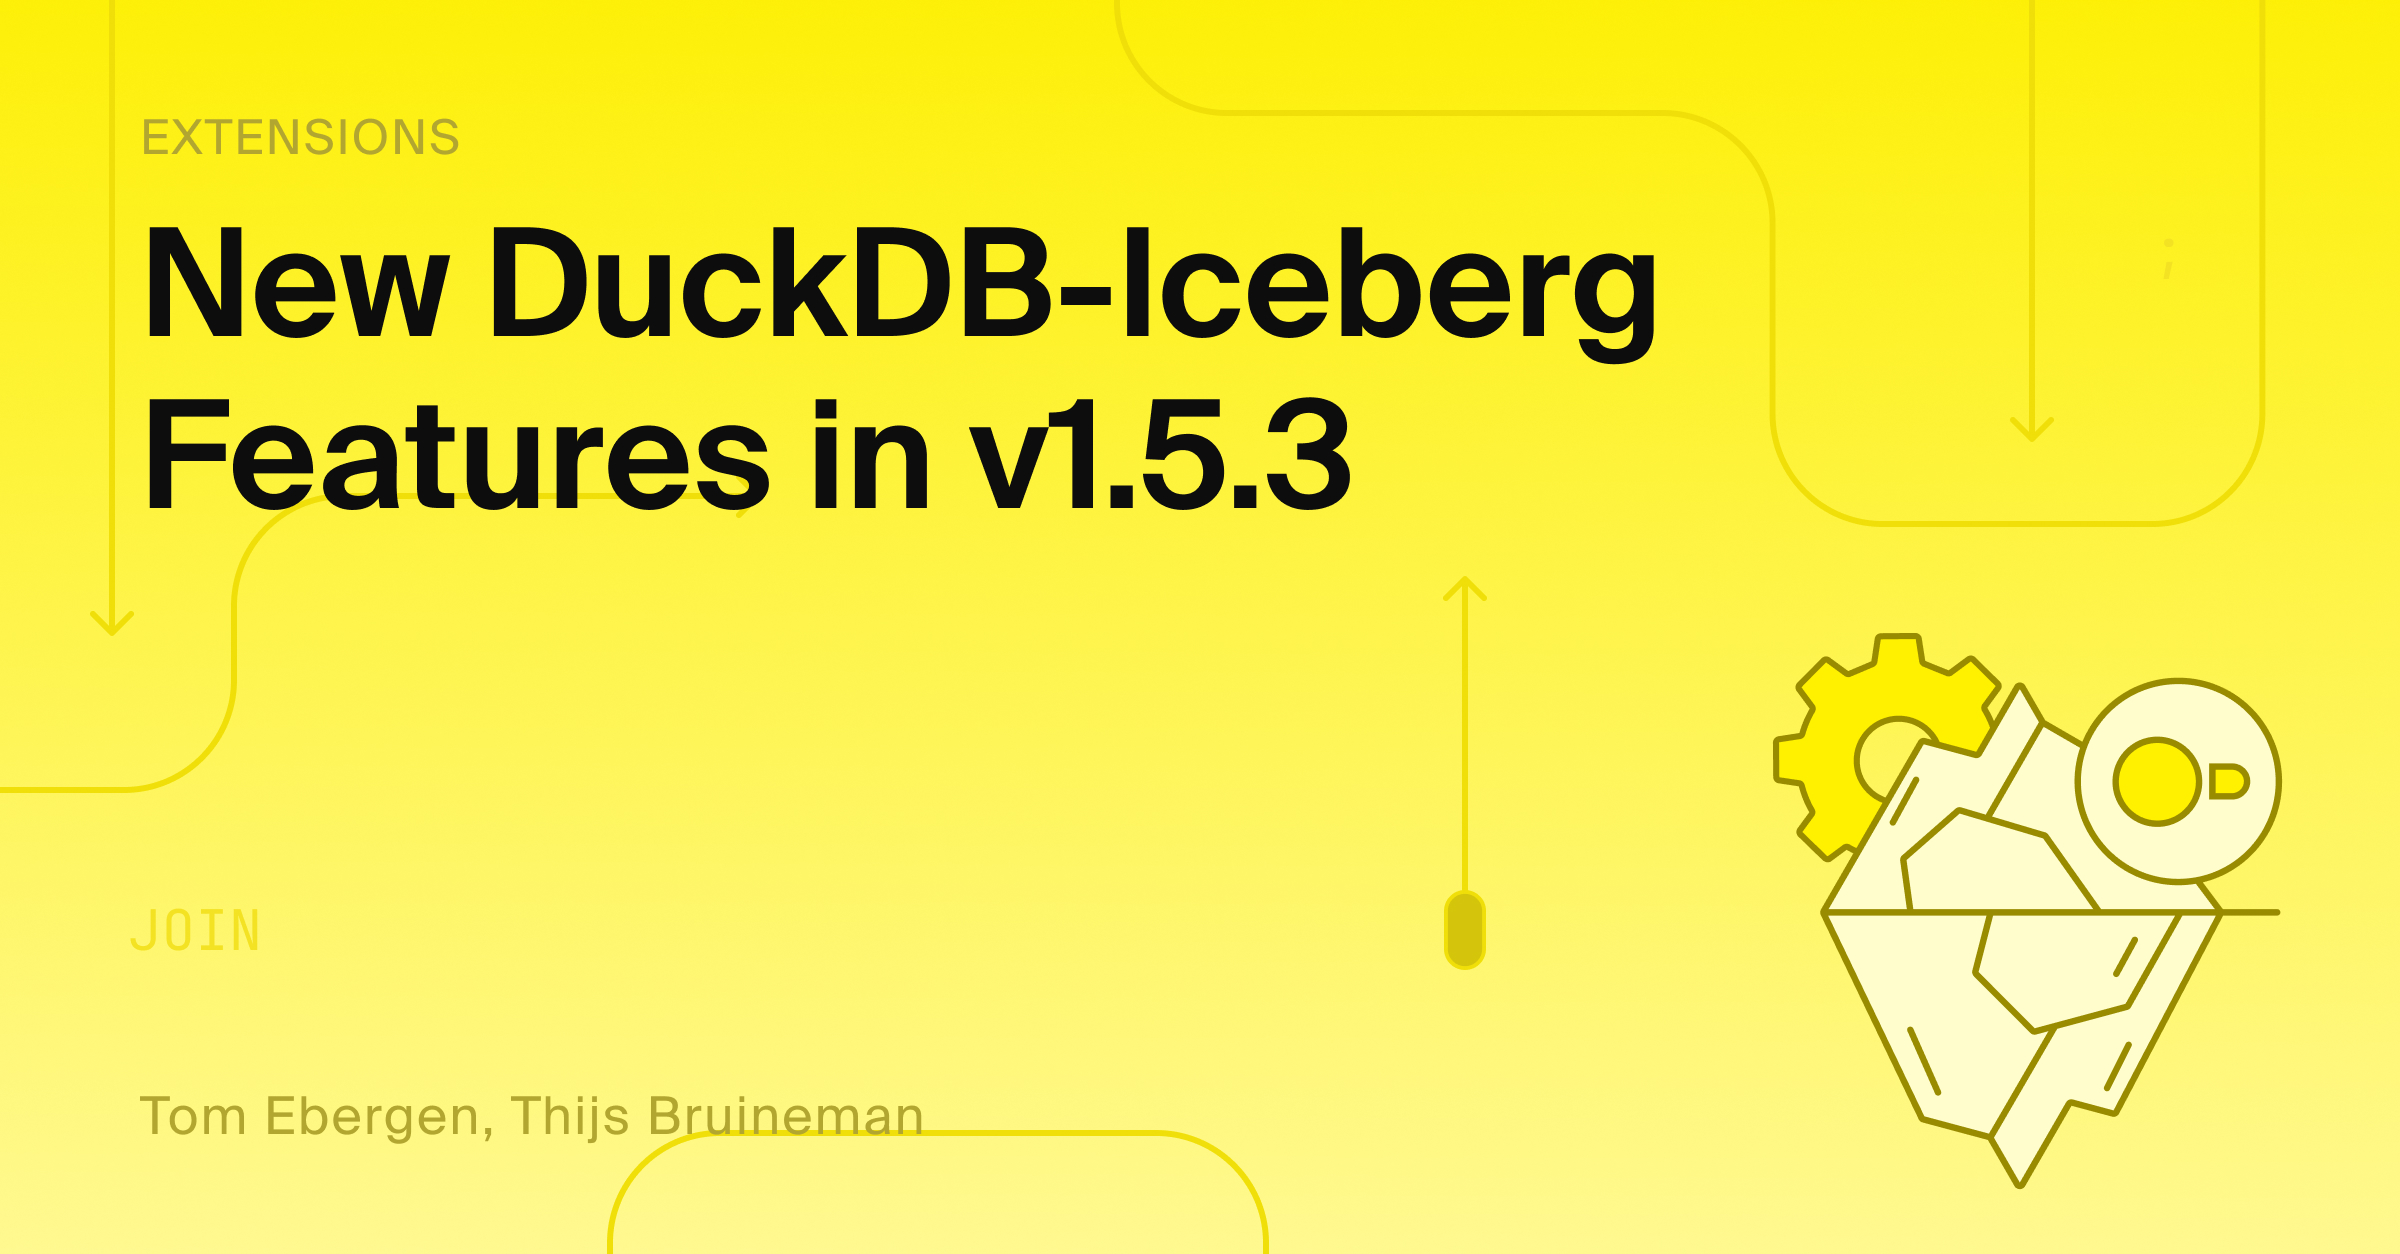
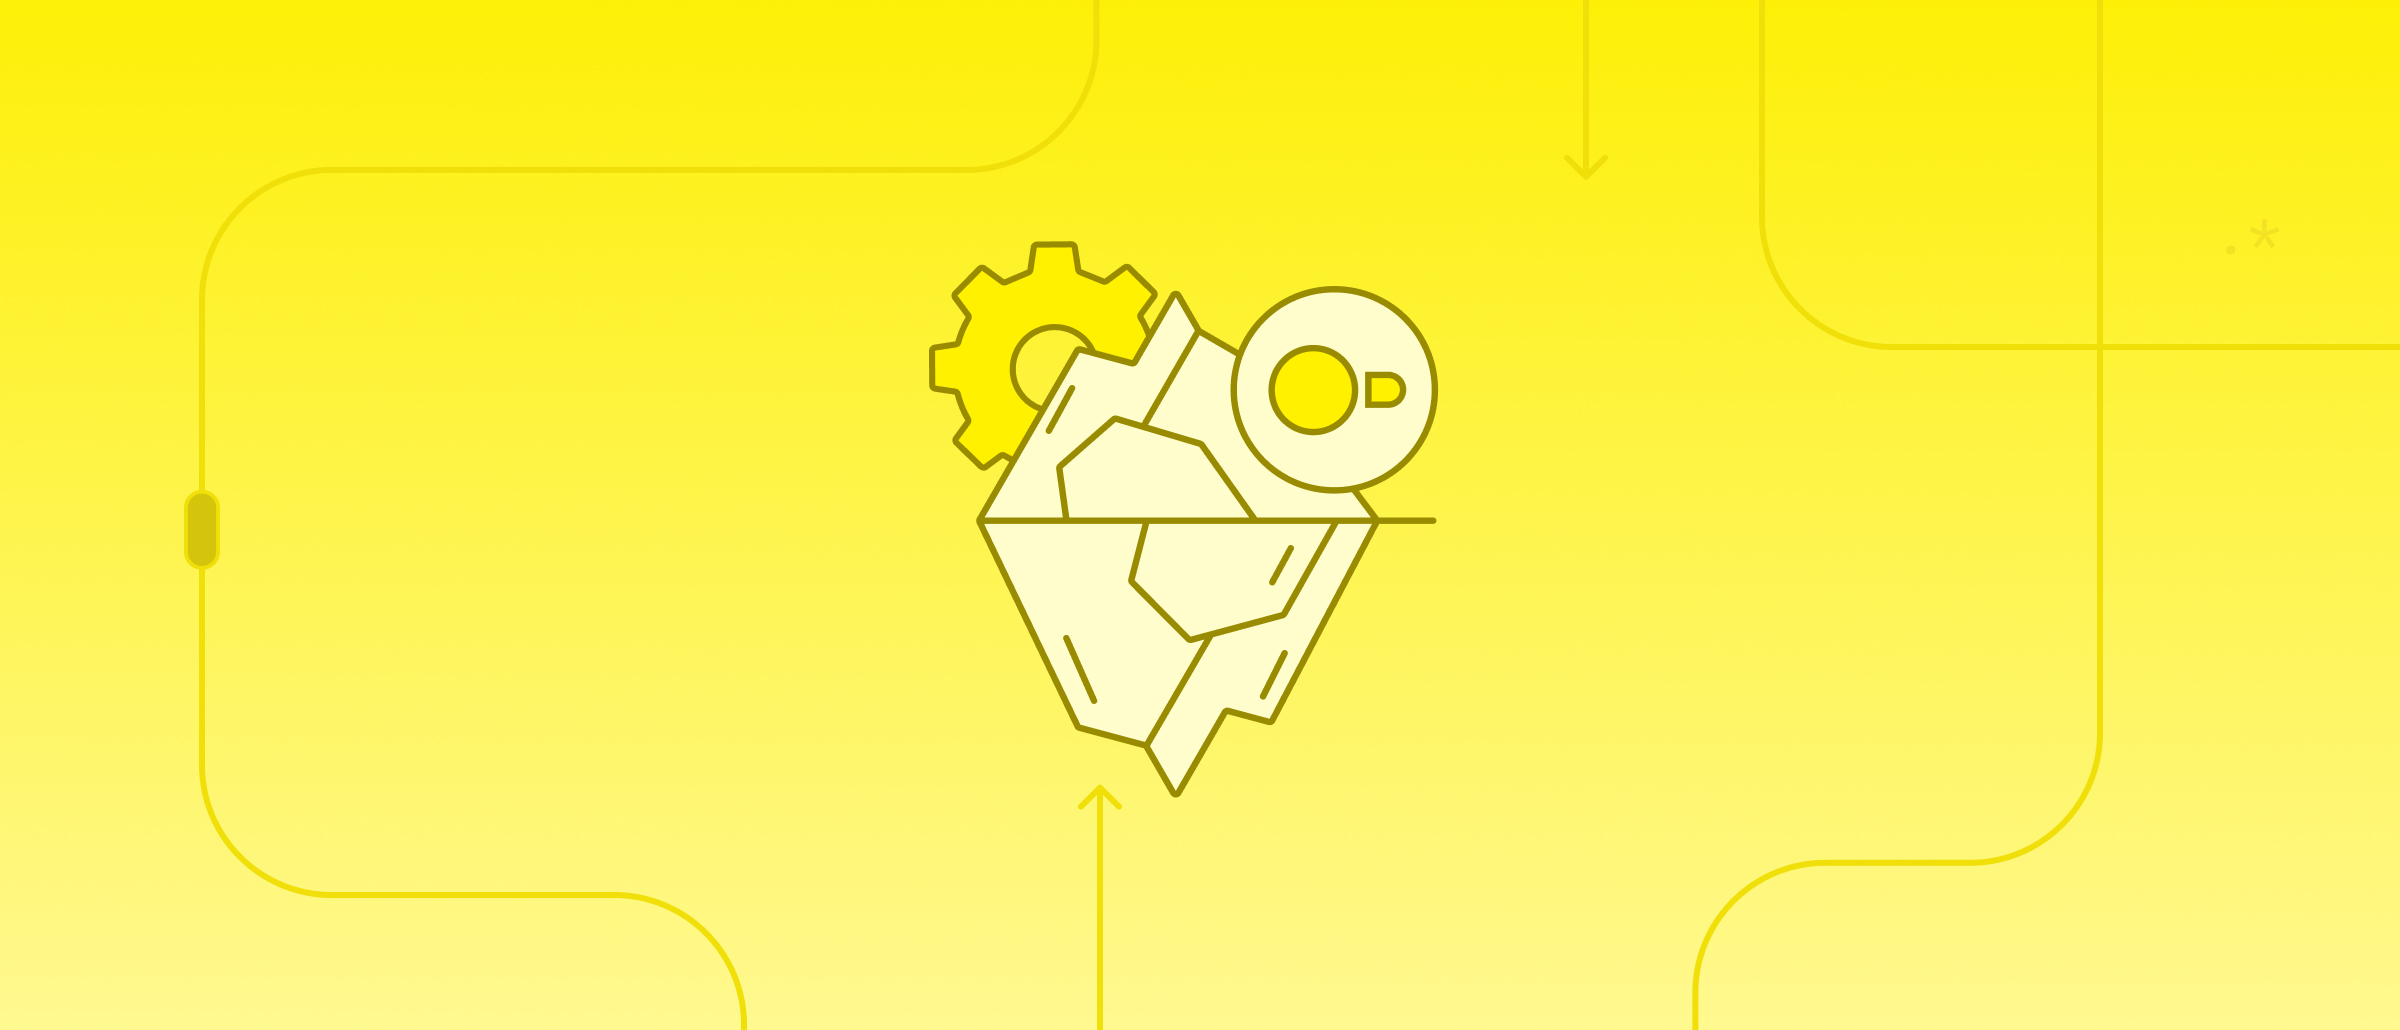
blog post revamp

diff --git a/_posts/2026-05-29-new-iceberg-features.md b/_posts/2026-05-29-new-iceberg-features.md
@@ -2,19 +2,18 @@
 layout: post
 title: "New DuckDB-Iceberg Features in v1.5.3"
 author: "Tom Ebergen, Thijs Bruineman"
-thumb: "/images/blog/thumbs/iceberg-v153.svg"
-image: "/images/blog/thumbs/iceberg-v153.png"
-excerpt: "DuckDB-Iceberg now has a number of new features supporting Iceberg Tables and Iceberg REST Catalogs."
+thumb: "/images/blog/thumbs/iceberg-in-v153.svg"
+image: "/images/blog/thumbs/iceberg-in-v153.jpg"
+excerpt: "DuckDB-Iceberg now has a number of new features supporting Iceberg Tables and Iceberg REST Catalogs: `MERGE INTO`, `ALTER TABLE`, partition transforms, V3 support, and others!"
 tags: ["extensions"]
 ---
 
 Despite the work required to develop the features needed for DuckLake v1.0 and Quack, the DuckLabs team is still hard at work on the [DuckDB-Iceberg extension]({% link docs/current/core_extensions/iceberg/overview.md %}).
-In this blog post, we will demo some of the features that are available in [DuckDB v1.5.3]({% post_url 2026-05-20-announcing-duckdb-153 %}). Many of these features were earmarked for a future release in our last [Iceberg blog post]({% post_url 2025-11-28-iceberg-writes-in-duckdb %}).
-
+In this blog post, we will demonstrate some of the features that are available in [DuckDB v1.5.3]({% post_url 2026-05-20-announcing-duckdb-153 %}). Many of these features were earmarked for a future release in our last Iceberg-themed blog post [“Writes in DuckDB-Iceberg”]({% post_url 2025-11-28-iceberg-writes-in-duckdb %}) – you can think of this post as “Part 2” to that blog post.
 
 ## Getting Started
 
-To experiment with the new DuckDB-Iceberg features, you will need to connect to your favorite Iceberg REST Catalog. There are many ways to connect to an Iceberg REST Catalog: please have a look at the [Connecting to REST Catalogs]({% link docs/current/core_extensions/iceberg/iceberg_rest_catalogs.md %}) page for connecting to catalogs like [Apache Polaris](https://polaris.apache.org/) or [Lakekeeper](https://lakekeeper.io/) and the [Connecting to S3 Tables]({% link docs/current/core_extensions/iceberg/amazon_s3_tables.md %}) page if you would like to connect to [Amazon S3 Tables](https://docs.aws.amazon.com/AmazonS3/latest/userguide/s3-tables.html).
+To experiment with the new DuckDB-Iceberg features, you will need to connect to your favorite Iceberg REST Catalog. There are many ways to do so: please have a look at the [Connecting to REST Catalogs page]({% link docs/current/core_extensions/iceberg/iceberg_rest_catalogs.md %}), which has instructions for catalogs such as [Apache Polaris](https://polaris.apache.org/) and [Lakekeeper](https://lakekeeper.io/). If you would like to connect to [Amazon S3 Tables](https://docs.aws.amazon.com/AmazonS3/latest/userguide/s3-tables.html), please consult the [Connecting to S3 Tables page]({% link docs/current/core_extensions/iceberg/amazon_s3_tables.md %}). In any case, your `ATTACH` command will look something like this:
 
 ```sql
 ATTACH '⟨warehouse_name⟩' AS my_datalake (
@@ -23,10 +22,12 @@ ATTACH '⟨warehouse_name⟩' AS my_datalake (
 );
 ```
 
-
 ## `MERGE INTO` Support
 
-DuckDB's [`MERGE INTO`]({% link docs/current/sql/statements/merge_into.md %}) statement is the recommended way to express upserts when the target table does not have a primary key. With v1.5.3, `MERGE INTO` is now fully supported against Iceberg tables. You can apply a change set to an Iceberg table in a single statement, deciding per row whether to insert, update or delete.
+DuckDB's [`MERGE INTO`]({% link docs/current/sql/statements/merge_into.md %}) statement is the recommended way to express upserts when the target table does not have a primary key – which is the case for all [lakehouse formats]({% link docs/current/lakehouse_formats.md %}).
+With v1.5.3, `MERGE INTO` is now fully supported against Iceberg tables. You can apply a change set to an Iceberg table in a single statement, deciding per row whether to insert, update or delete.
+
+Let's take this table for example:
 
 ```sql
 CREATE TABLE my_datalake.default.people (
@@ -36,18 +37,36 @@ CREATE TABLE my_datalake.default.people (
 );
 INSERT INTO my_datalake.default.people
     VALUES (1, 'John', 92_000.0), (2, 'Anna', 100_000.0);
+```
 
+```text
+┌───────┬─────────┬──────────┐
+│  id   │  name   │  salary  │
+│ int32 │ varchar │  float   │
+├───────┼─────────┼──────────┤
+│     1 │ John    │  92000.0 │
+│     2 │ Anna    │ 100000.0 │
+└───────┴─────────┴──────────┘
+```
+
+Let's run an update on this table with two records, one increasing person 1's salary and another adding a new person with id 3.
+
+```sql
 MERGE INTO my_datalake.default.people AS target
     USING (
-        SELECT
-            unnest([1, 3]) AS id,
-            unnest(['John', 'Sarah']) AS name,
-            unnest([105_000.0, 95_000.0]) AS salary
+        FROM (VALUES
+            (1, 'John', 105_000.0),
+            (3, 'Sarah', 95_000.0)
+        ) t(id, name, salary)
     ) AS upserts
     ON (upserts.id = target.id)
     WHEN MATCHED THEN UPDATE
     WHEN NOT MATCHED THEN INSERT;
+```
 
+When querying the result, we get the following:
+
+```sql
 SELECT *
 FROM my_datalake.default.people
 ORDER BY id;
@@ -66,11 +85,68 @@ ORDER BY id;
 
 You can also combine matched and unmatched branches with `WHEN MATCHED THEN DELETE` to express a delete set in the same statement. As with `UPDATE` and `DELETE`, `MERGE INTO` uses merge-on-read semantics and writes positional deletes to the Iceberg table.
 
-## `TRUNCATE` and `BUCKET` Support
+## `ALTER TABLE` Support
+
+In DuckDB v1.4's Iceberg extension, the lack of schema evolution of Iceberg tables was a [documented limitation]({% link docs/lts/core_extensions/iceberg/iceberg_rest_catalogs.md %}#unsupported-operations).
+In v1.5.3, the `ALTER TABLE` statement is now supported against Iceberg tables, covering the most common schema-evolution operations.
+
+```sql
+-- Create the table
+CREATE TABLE my_datalake.default.simple_table AS
+    FROM (VALUES
+        (1, 'Andy'),
+        (2, 'Bob'),
+        (3, 'Claire'),
+        (4, 'Mr. Duck')) t(col1, col2);
+
+-- Rename the table
+ALTER TABLE my_datalake.default.simple_table
+    RENAME TO renamed_table;
+
+-- Add a column
+ALTER TABLE my_datalake.default.renamed_table
+    ADD COLUMN col3 DOUBLE;
+
+-- Rename a column
+ALTER TABLE my_datalake.default.renamed_table
+    RENAME COLUMN col2 TO name;
+
+-- Drop a column
+ALTER TABLE my_datalake.default.renamed_table
+    DROP COLUMN col3;
+
+-- Set the format-version
+ALTER TABLE my_datalake.default.renamed_table
+    SET ('format-version' = 3);
+```
+
+If we query the table after the schema changes, we get the following:
+
+```sql
+SELECT *
+FROM my_datalake.default.renamed_table
+ORDER BY col1;
+```
+
+```text
+┌───────┬──────────┐
+│ col1  │   name   │
+│ int32 │ varchar  │
+├───────┼──────────┤
+│     1 │ Andy     │
+│     2 │ Bob      │
+│     3 │ Claire   │
+│     4 │ Mr. Duck │
+└───────┴──────────┘
+```
+
+In the background, each `ALTER TABLE` statement updates the `current-schema-id` of the Iceberg table. The changes are visible to other Iceberg-aware engines the next time they query the `LoadTableInformation` endpoint. Iceberg schema evolution is metadata-only, so no data files are rewritten.
+
+## `truncate` and `bucket` Support
 
 The Iceberg specification defines several [partition transforms](https://iceberg.apache.org/spec/#partition-transforms) that determine how data files are laid out on disk. In v1.5.3, DuckDB-Iceberg supports creating, inserting into, and updating tables that use the `bucket` and `truncate` partition transforms.
 
-`bucket(N, col)` hashes the column's value into `N` buckets, which is useful when you want stable partitioning on a high-cardinality column. `truncate(W, col)` groups rows by the first `W` characters (or by the column's value rounded down to a multiple of `W` for numeric columns), which is useful for prefix-based partitioning.
+The `bucket(N, col)` transform hashes the column's value into `N` buckets, which is useful when you want stable partitioning on a high-cardinality column. `truncate(W, col)` groups rows by the first `W` characters (or by the column's value rounded down to a multiple of `W` for numeric columns), which is useful for prefix-based partitioning.
 
 ```sql
 CREATE TABLE my_datalake.default.events (
@@ -139,59 +215,6 @@ CALL remove_iceberg_schema_properties(
 
 Schema properties are written through the Iceberg REST Catalog, so any other Iceberg-aware engine attached to the same catalog will see the updates immediately. The returned value is the number of remaining schema properties.
 
-## `ALTER TABLE` Support
-
-In v1.4.2, schema evolution of Iceberg tables was a documented limitation. In v1.5.3, the `ALTER TABLE` statement is now supported against Iceberg tables, covering the most common schema-evolution operations.
-
-```sql
--- Create the table
-CREATE TABLE my_datalake.default.simple_table FROM VALUES 
-    (1, 'Andy'), 
-    (2, 'Bob'),
-    (3, 'Claire'),
-    (4, 'Mr. Duck') t(col1, col2);
-
--- Rename the table
-ALTER TABLE my_datalake.default.simple_table
-    RENAME TO renamed_table;
-
--- Add a column
-ALTER TABLE my_datalake.default.renamed_table
-    ADD COLUMN col3 DOUBLE;
-
--- Rename a column
-ALTER TABLE my_datalake.default.renamed_table
-    RENAME COLUMN col2 TO name;
-
--- Drop a column
-ALTER TABLE my_datalake.default.renamed_table
-    DROP COLUMN col3;
-
--- Set the format-version
-ALTER TABLE my_datalake.default.renamed_table
-    SET ('format-version'=3);
-```
-
-Each `ALTER TABLE` statement will update the `current-schema-id` of the Iceberg table. The changes are visible to other Iceberg-aware engines the next time they query the LoadTableInformation endpoint. Iceberg schema evolution is metadata-only, so no data files are rewritten.
-
-```sql
-SELECT *
-FROM my_datalake.default.renamed_table
-ORDER BY col1;
-```
-
-```text
-┌───────┬──────────┐
-│ col1  │   name   │
-│ int32 │ varchar  │
-├───────┼──────────┤
-│     1 │ Andy     │
-│     2 │ Bob      │
-│     3 │ Claire   │
-│     4 │ Mr. Duck │
-└───────┴──────────┘
-```
-
 ## V3 Support
 
 The [Iceberg v3 specification](https://iceberg.apache.org/spec/#version-3) introduces several new features that DuckDB-Iceberg now supports for both reads and writes:
@@ -206,12 +229,12 @@ The biggest change in practice is binary deletion vectors. In v2 tables, DuckDB-
 You can create a v3 table by setting the `format-version` table property at creation time:
 
 ```sql
-CREATE TABLE my_datalake.default.v3_table 
-WITH ('format-version'=3) 
-AS FROM VALUES
- (1, {'kind': 'click', 'x': 10}::VARIANT, TIMESTAMP_NS '2026-05-20 12:00:00.123456789'),
- (2, {'kind': 'view'}::VARIANT, TIMESTAMP_NS '2026-05-20 12:00:00.987654321') 
- t(id, payload, event_time);
+CREATE TABLE my_datalake.default.v3_table
+WITH ('format-version' = 3) AS
+    FROM (VALUES
+        (1, {'kind': 'click', 'x': 10}::VARIANT, TIMESTAMP_NS '2026-05-20 12:00:00.123456789'),
+        (2, {'kind': 'view'}::VARIANT, TIMESTAMP_NS '2026-05-20 12:00:00.987654321')
+    ) t(id, payload, event_time);
 
 -- Deletes against a v3 table are written as binary deletion vectors
 DELETE FROM my_datalake.default.v3_table
@@ -252,6 +275,3 @@ FROM iceberg_metadata(my_datalake.default.v3_table);
 ## Conclusion and Future Work
 
 With these features, DuckDB-Iceberg has closed many of the gaps called out in the [previous blog post]({% post_url 2025-11-28-iceberg-writes-in-duckdb %}): partitioned writes, schema evolution, `MERGE INTO`, and many Iceberg v3 features are now available. There is still more to come, and as always, if you would like to see a specific feature prioritized, please reach out to us in the [DuckDB-Iceberg GitHub repository](https://github.com/duckdb/duckdb-iceberg) or [get in touch](https://ducklabs.com/contact/) with our engineers.
-
-
-

diff --git a/_posts/2025-11-28-iceberg-writes-in-duckdb.md b/_posts/2025-11-28-iceberg-writes-in-duckdb.md
@@ -1,6 +1,6 @@
 ---
 layout: post
-title:  "Writes in DuckDB-Iceberg"
+title: "Writes in DuckDB-Iceberg"
 author: "Tom Ebergen"
 thumb: "/images/blog/thumbs/iceberg-writes.svg"
 image: "/images/blog/thumbs/iceberg-writes.png"